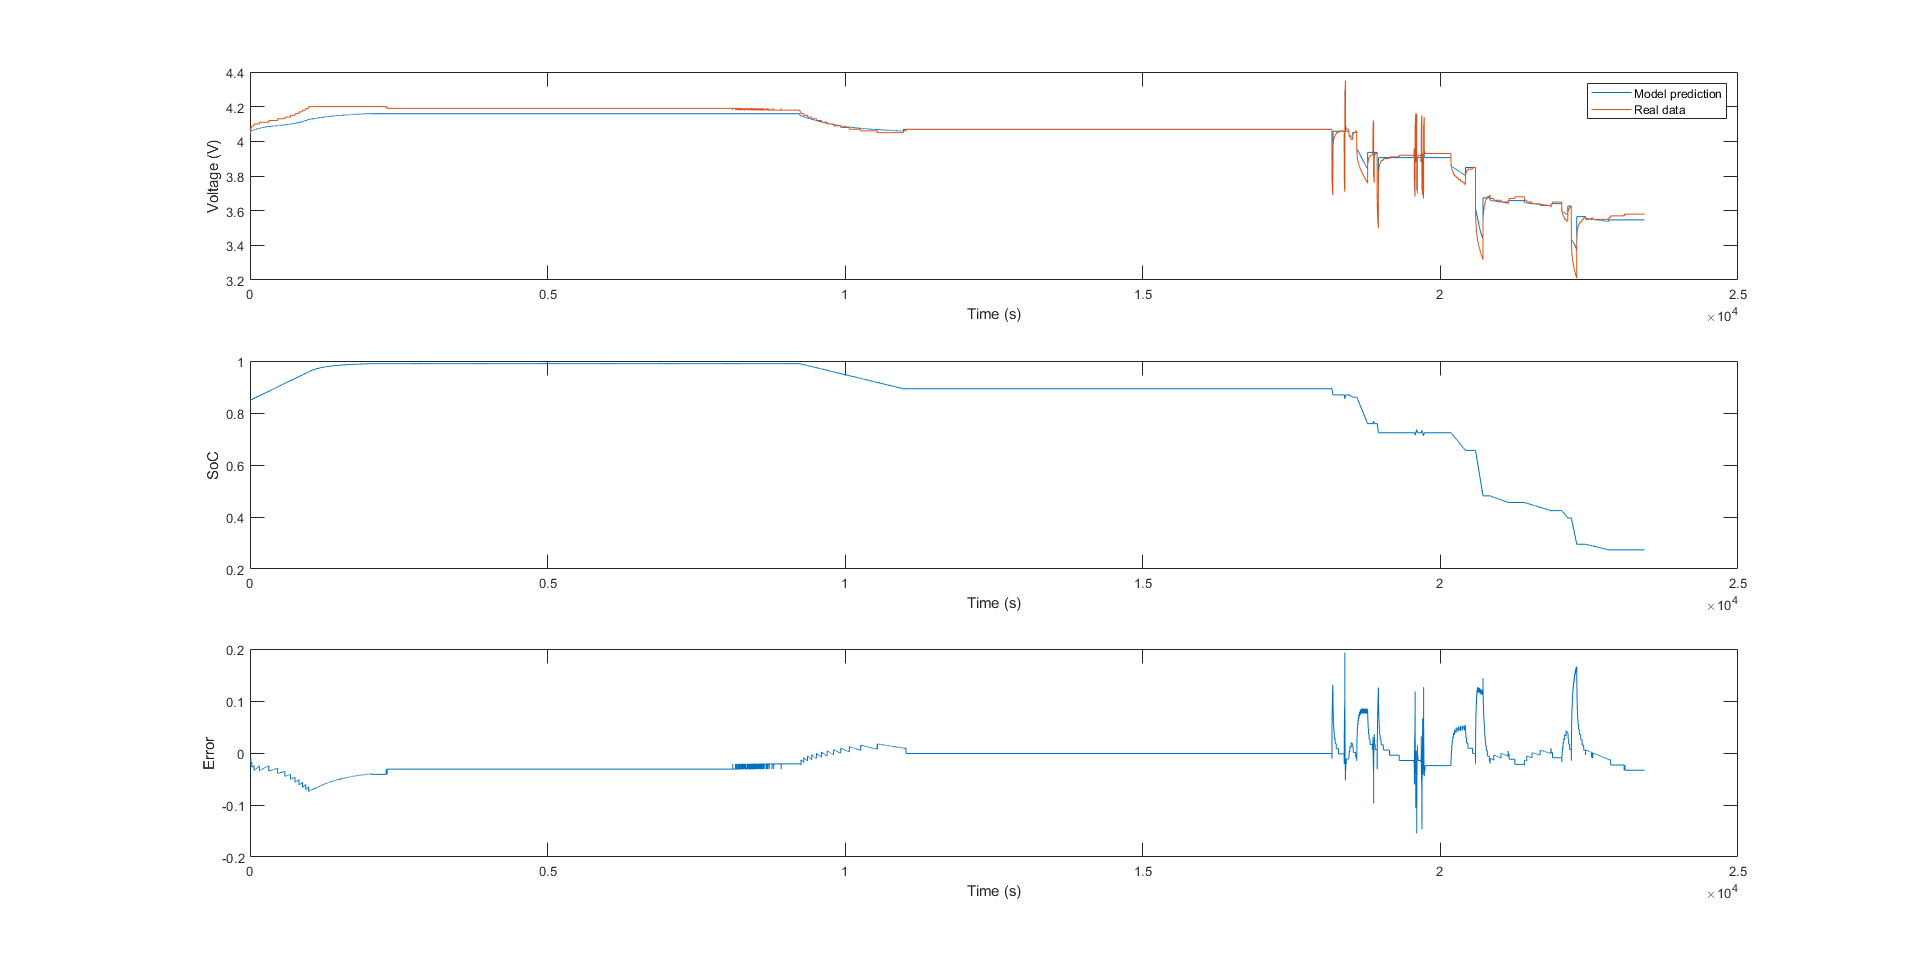
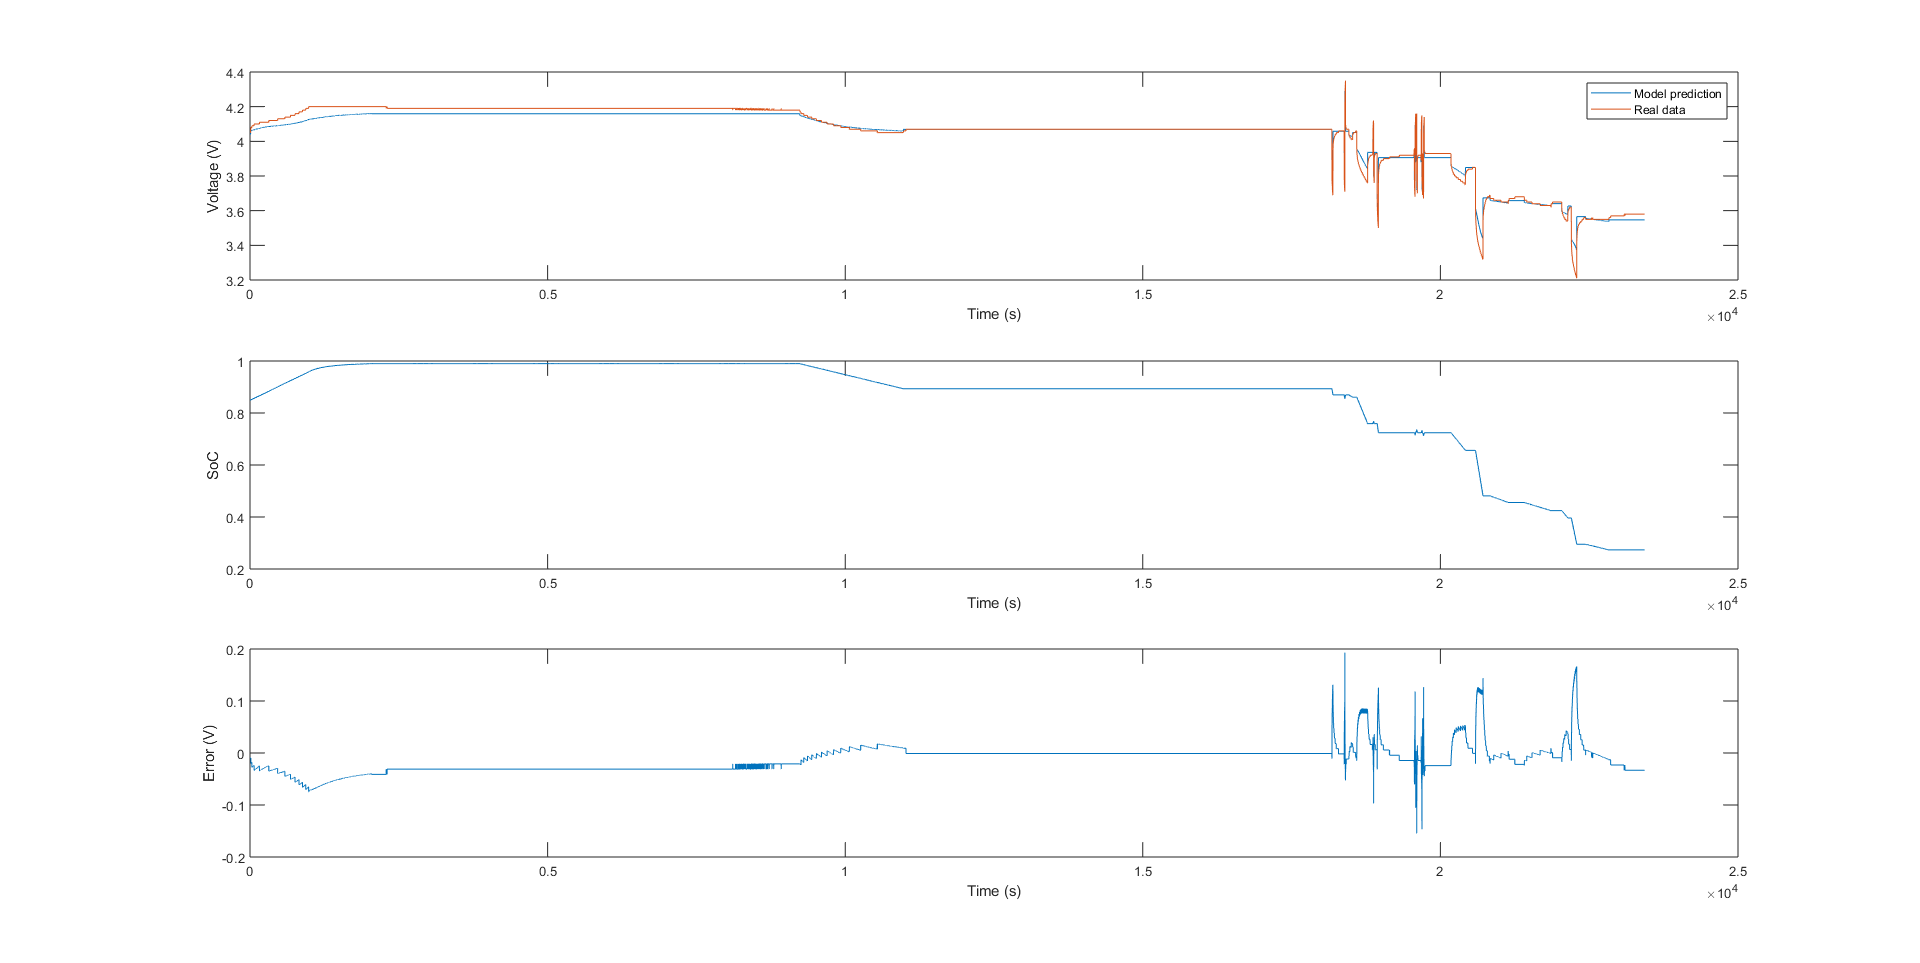
minor edits

Changed region(s): [[0.8125, 0.0623, 0.9062, 0.1246], [0.0938, 0.7788, 0.125, 0.81]]

diff --git a/Proj3_part3.m b/Proj3_part3.m
@@ -18,21 +18,22 @@ ax1 = subplot(311);
 plot(data.Times, data.VoltageV, 'b')
 hold on
 plot(data.Times, V_model, 'r')
-ylabel('Voltage, V')
-xlabel('Time, s')
+ylabel('Voltage (V)')
+xlabel('Time (s)')
 legend('Test data', 'Model prediciton')
 
 ax2 = subplot(312);
 plot(data.Times, T_model)
 hold on
 plot(data.Times, data.Temperature)
-ylabel('Temperature, C')
-xlabel('Time, s')
+ylabel('Temperature (C)')
+xlabel('Time (s)')
+legend('Test data','Model prediction')
 
 ax3 = subplot(313);
 plot(data.Times, Error_T)
-ylabel('Temperature error, C')
-xlabel('Time, s')
+ylabel('Error (C)')
+xlabel('Time (s)')
 linkaxes([ax1,ax2,ax3],'x')
 
 %%Last question part 3
@@ -44,8 +45,8 @@ plot([0 20 40], [R1_0C_30pc R1_20C_30pc R1_40C_30pc])
 hold on
 plot([0 20 40], [R1_0C_60pc R1_20C_60pc R1_40C_60pc])
 plot([0 20 40], [R1_0C_90pc R1_20C_90pc R1_40C_90pc])
-xlabel('Temperature, C')
-ylabel('Resistance, Ohm')
+xlabel('Temperature (C)')
+ylabel('Resistance (\Omega)')
 legend('30% SoC', '60% SoC', '90% SoC')
 
 toc

diff --git a/Proj3_part1.m b/Proj3_part1.m
@@ -68,7 +68,7 @@ ylabel('SoC')
 ax3 = subplot(313);
 plot(error)
 xlabel('Time (s)')
-ylabel('Error')
+ylabel('Error (V)')
 
 linkaxes([ax1,ax2,ax3],'x')
 
